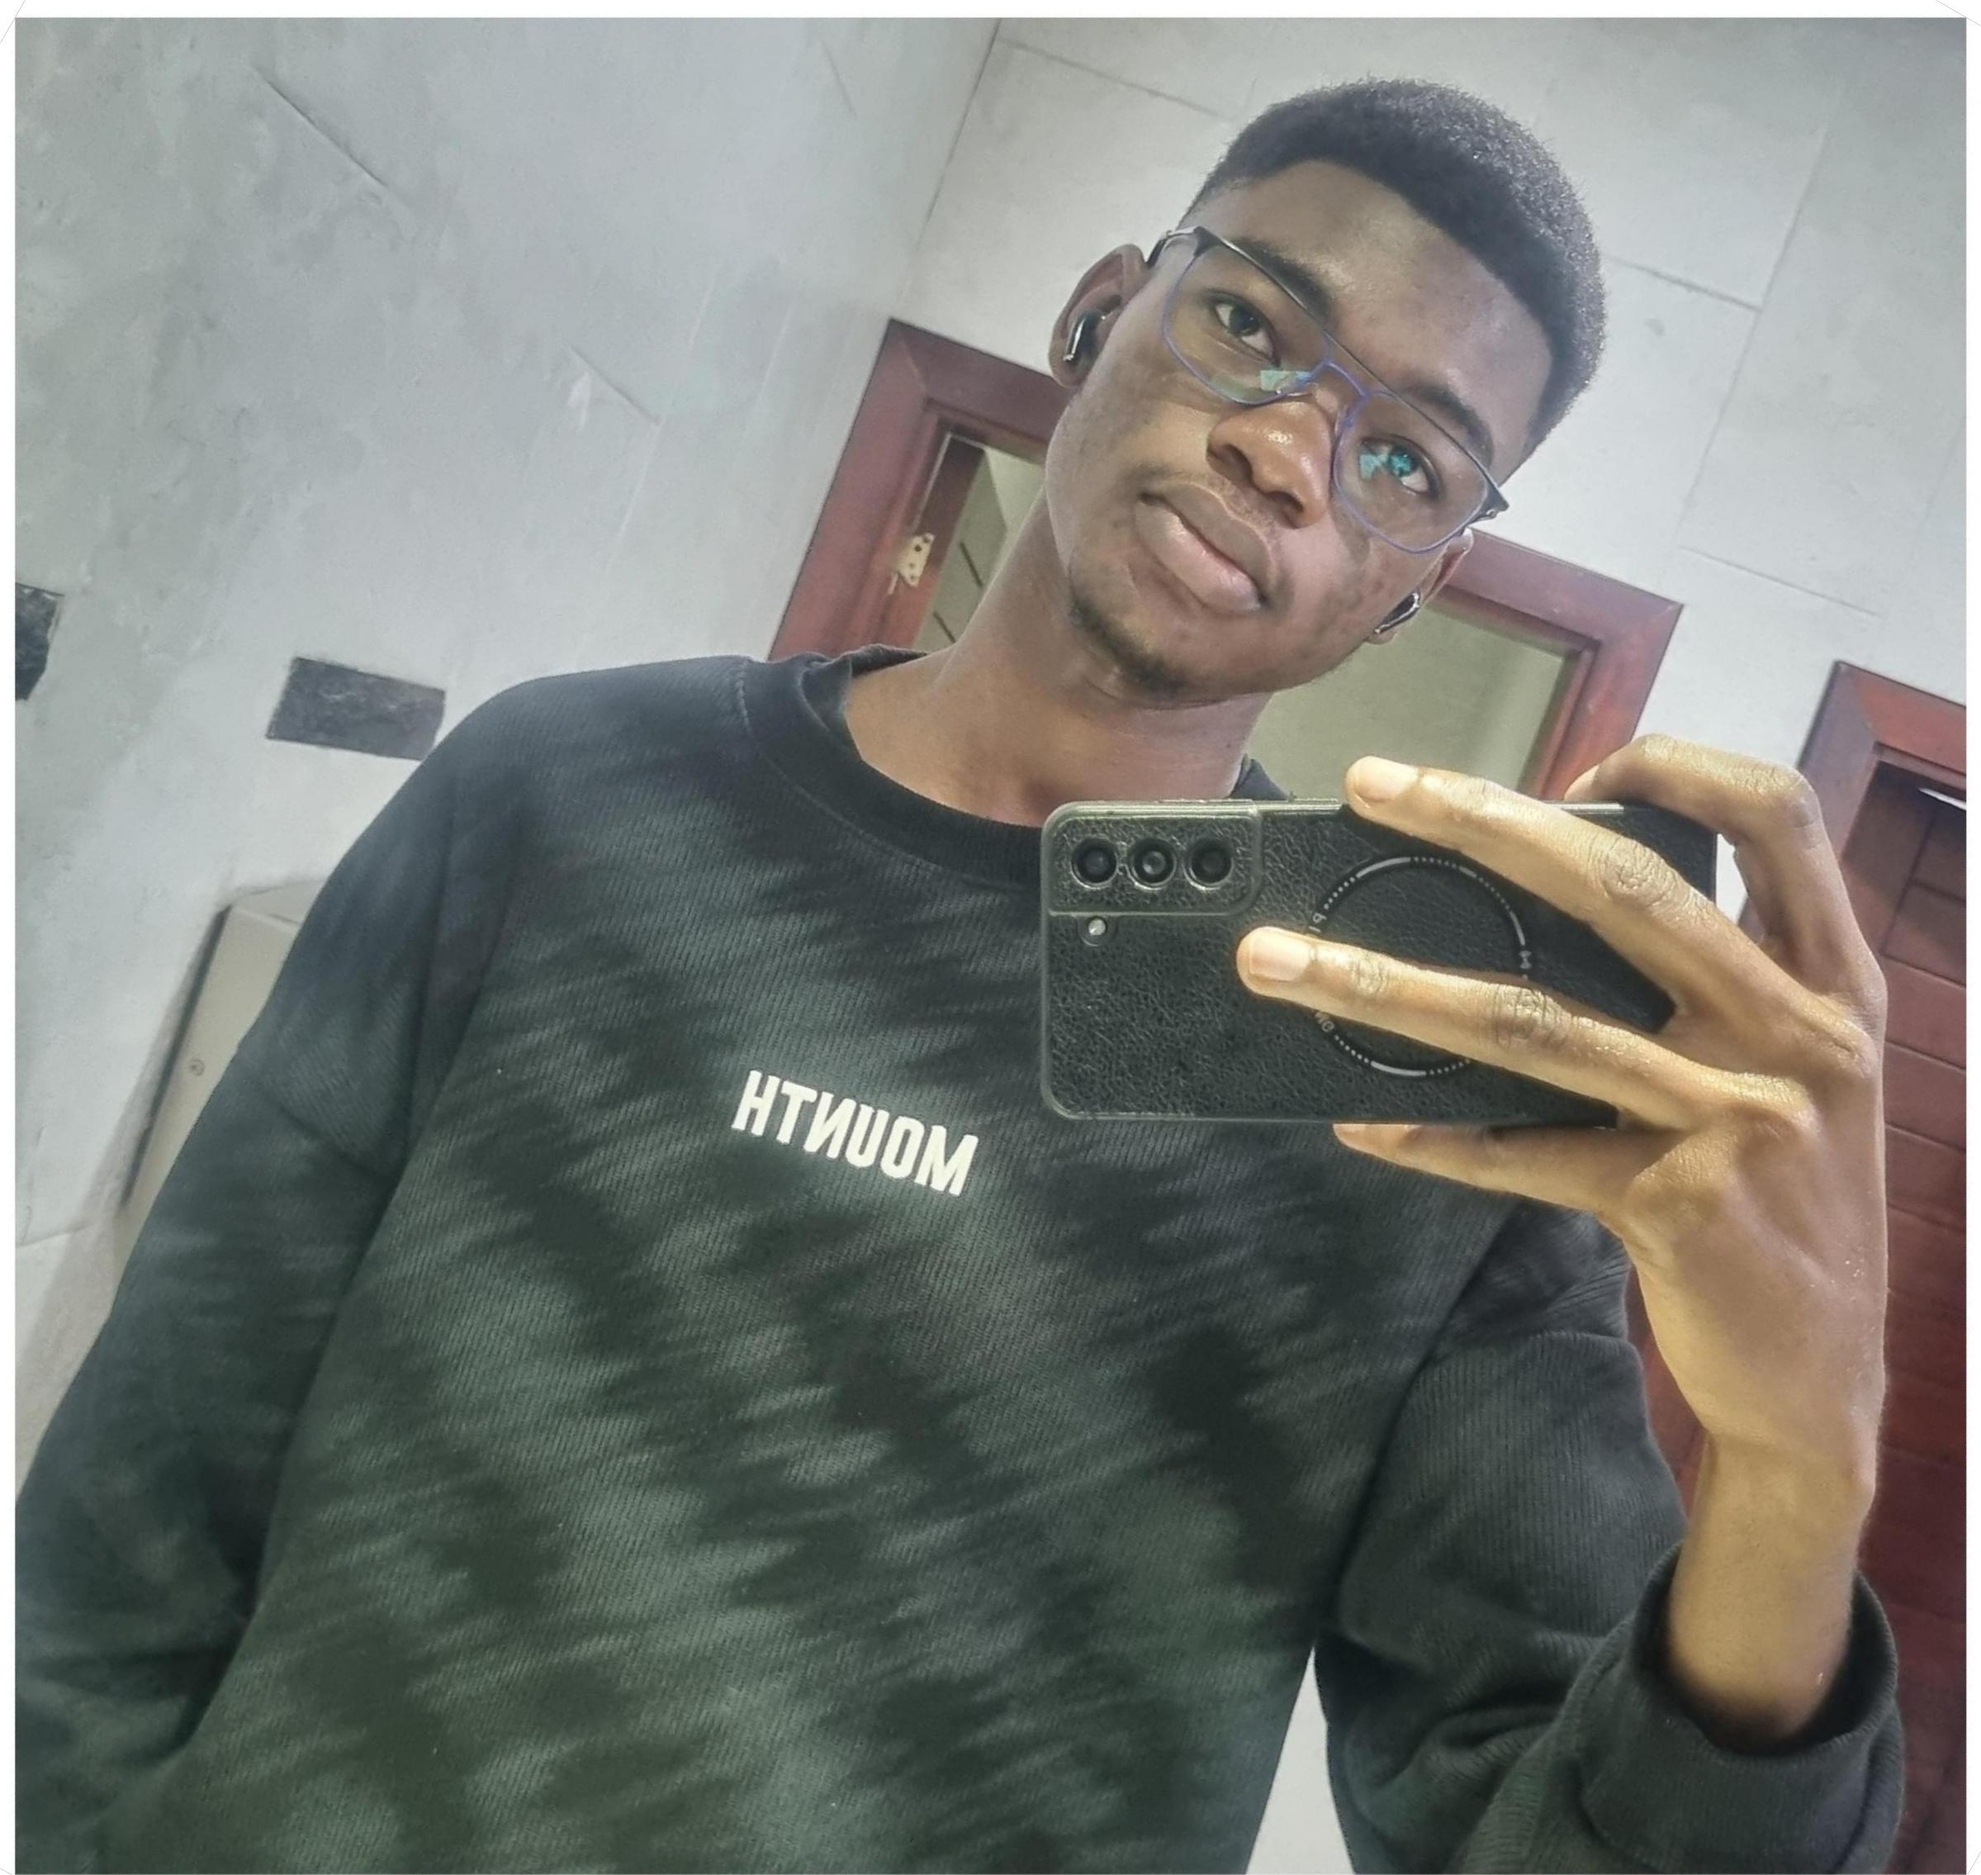
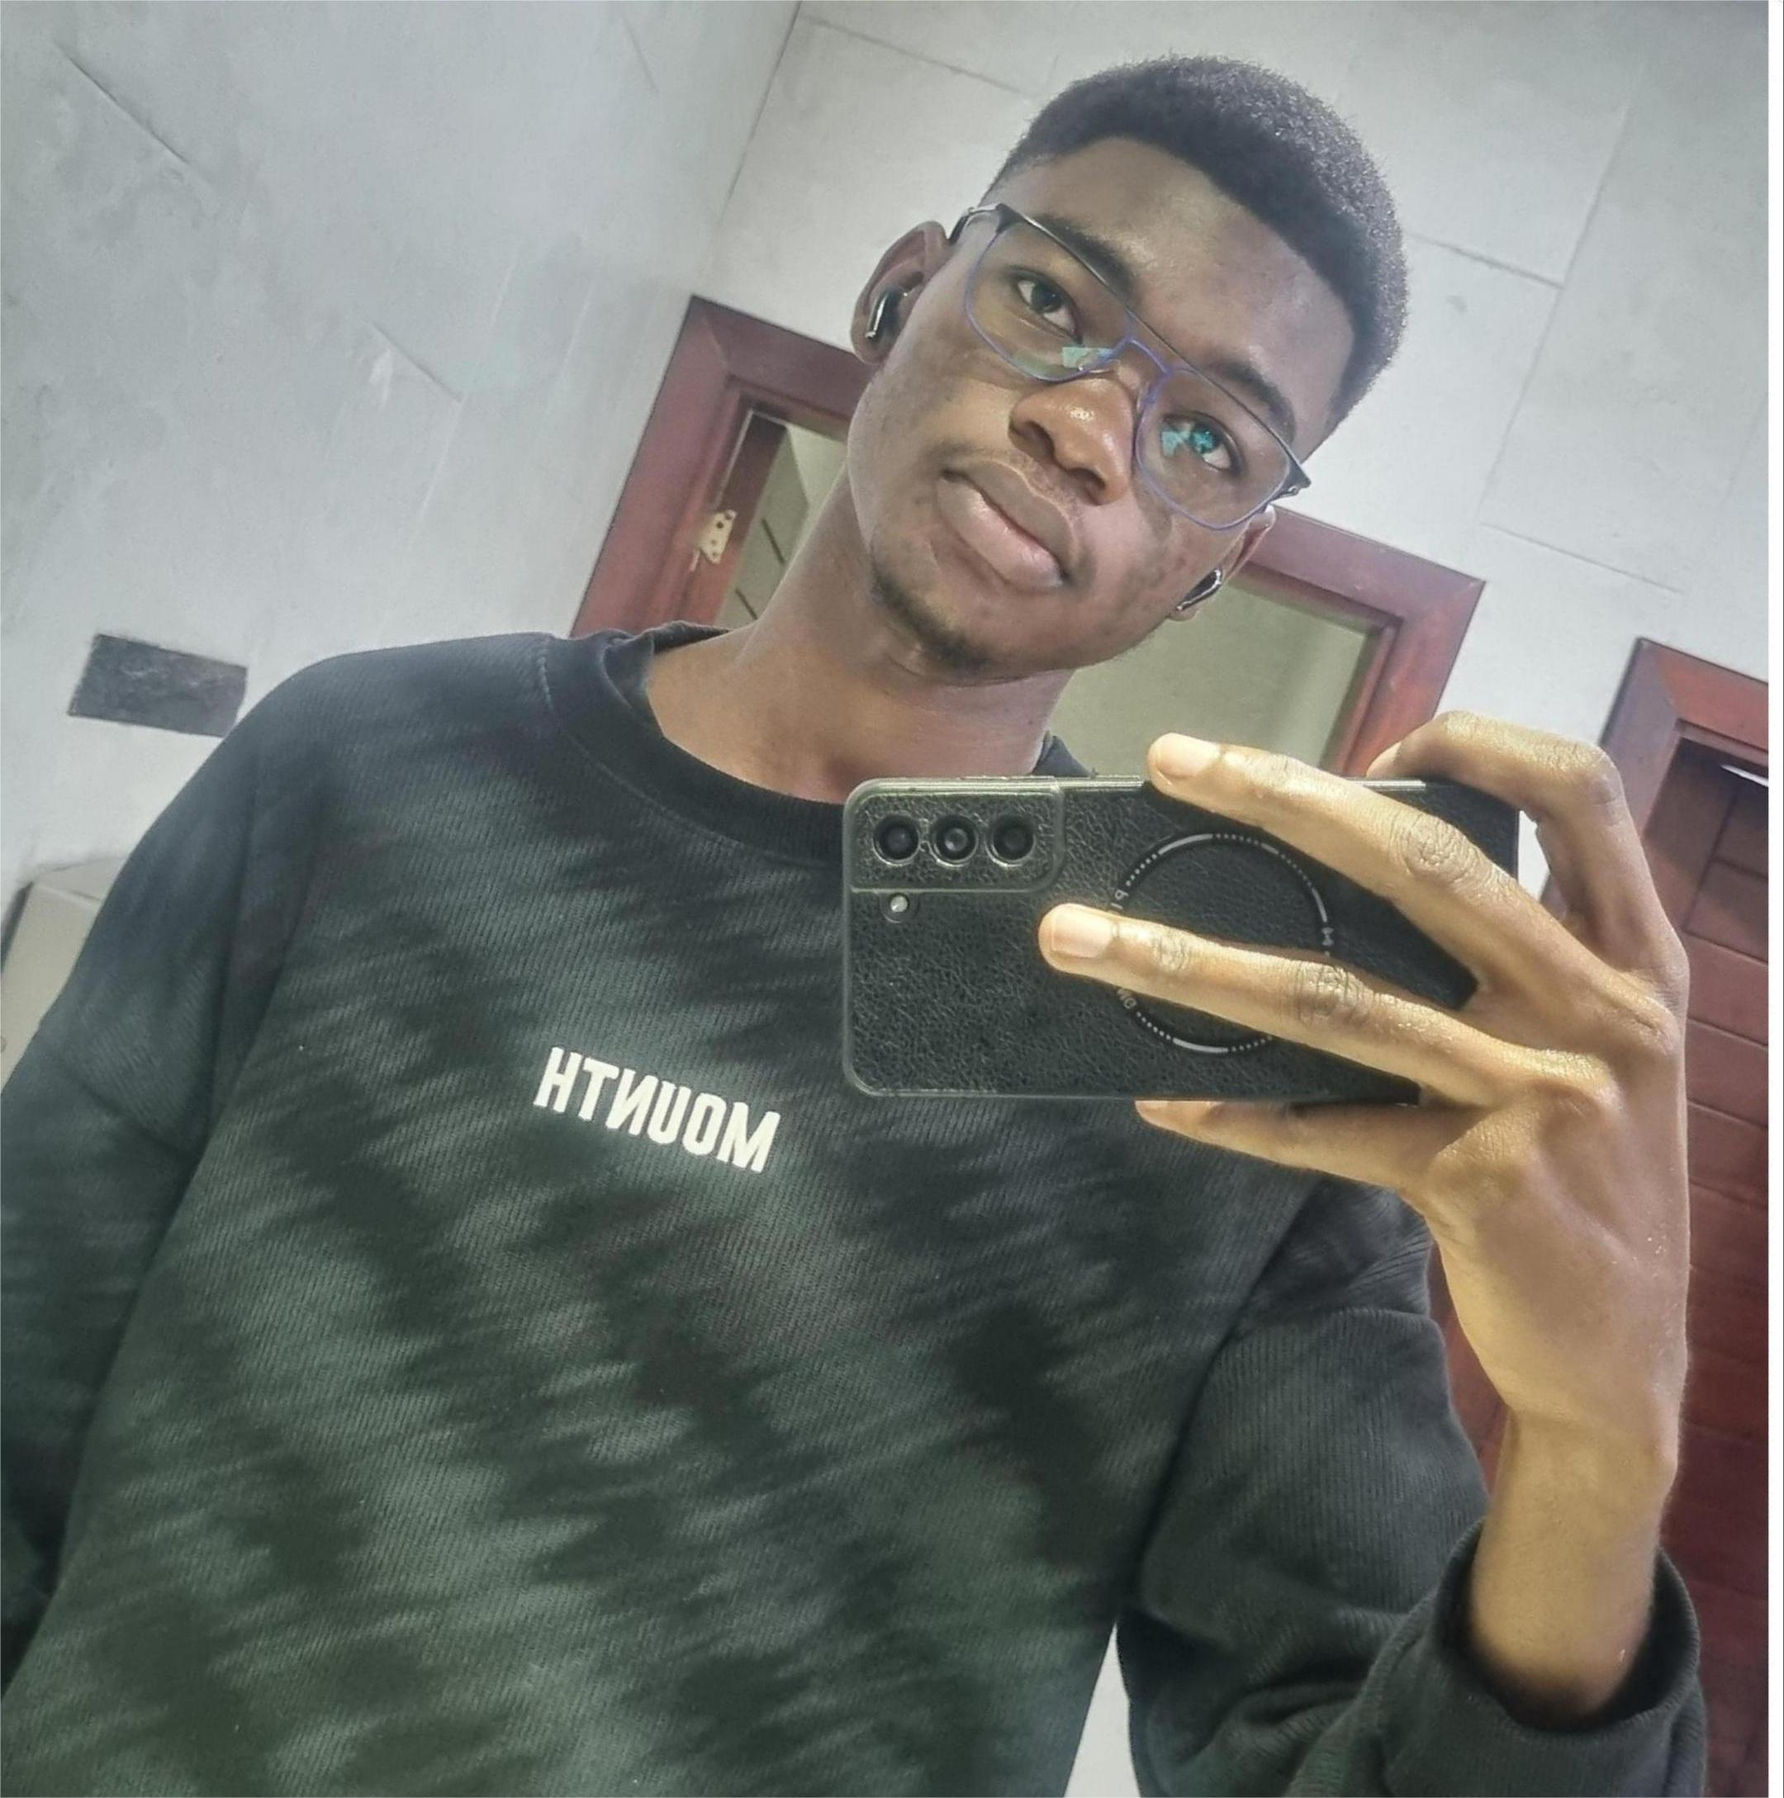
feat: update project links and enhance UI components with improved styles and effects

diff --git a/src/components/sections/Contact.tsx b/src/components/sections/Contact.tsx
@@ -55,7 +55,7 @@ export default function Contact() {
               onChange={handleChange}
               placeholder="Name"
               required
-              className="w-full px-4 py-3 rounded-xl bg-surface border border-edge text-ink placeholder:text-muted focus:outline-none focus:border-accent transition-colors"
+              className="w-full px-4 py-3 rounded-xl bg-surface/60 backdrop-blur-sm border border-white/6 text-ink placeholder:text-muted focus:outline-none focus:border-accent/60 transition-colors"
             />
             <input
               name="email"
@@ -64,7 +64,7 @@ export default function Contact() {
               onChange={handleChange}
               placeholder="Email"
               required
-              className="w-full px-4 py-3 rounded-xl bg-surface border border-edge text-ink placeholder:text-muted focus:outline-none focus:border-accent transition-colors"
+              className="w-full px-4 py-3 rounded-xl bg-surface/60 backdrop-blur-sm border border-white/6 text-ink placeholder:text-muted focus:outline-none focus:border-accent/60 transition-colors"
             />
             <textarea
               name="message"
@@ -73,7 +73,7 @@ export default function Contact() {
               placeholder="Message"
               required
               rows={5}
-              className="w-full px-4 py-3 rounded-xl bg-surface border border-edge text-ink placeholder:text-muted focus:outline-none focus:border-accent transition-colors resize-none"
+              className="w-full px-4 py-3 rounded-xl bg-surface/60 backdrop-blur-sm border border-white/6 text-ink placeholder:text-muted focus:outline-none focus:border-accent/60 transition-colors resize-none"
             />
             <button
               type="submit"

diff --git a/src/components/sections/Hero.tsx b/src/components/sections/Hero.tsx
@@ -91,13 +91,21 @@ export default function Hero() {
 
           {/* Photo */}
           <div className="flex justify-center md:justify-end order-first md:order-last">
-            <div className="relative">
+            <div
+              className="group relative w-56 h-72 md:w-64 md:h-80 rounded-3xl overflow-hidden ring-1 ring-accent/25 shrink-0"
+              style={{ boxShadow: "0 8px 48px rgba(139, 92, 246, 0.14)" }}
+            >
               <img
                 src="/me.jpg"
                 alt="Eben-Ezer Ndeingar"
-                className="w-56 h-72 md:w-64 md:h-80 object-cover object-top rounded-3xl ring-1 ring-accent/25"
-                style={{ boxShadow: "0 8px 48px rgba(139, 92, 246, 0.14)" }}
+                className="w-full h-full object-cover object-top"
               />
+              {/* Diagonal shine sweep on hover */}
+              <div className="absolute inset-0 pointer-events-none overflow-hidden rounded-3xl">
+                <div className="absolute inset-0 -translate-x-full group-hover:translate-x-[250%] transition-transform duration-700 ease-in-out bg-gradient-to-r from-transparent via-white/12 to-transparent -skew-x-12" />
+              </div>
+              {/* Bottom fade — photo bleeds into background */}
+              <div className="absolute bottom-0 left-0 right-0 h-2/5 bg-gradient-to-t from-canvas/70 to-transparent pointer-events-none" />
             </div>
           </div>
         </motion.div>

diff --git a/src/components/project/ProjectCard.tsx b/src/components/project/ProjectCard.tsx
@@ -17,7 +17,8 @@ export default function ProjectCard({ project }: ProjectCardProps) {
     <motion.div
       role="button"
       onClick={() => navigate(`/projects/${project.slug}`)}
-      className="cursor-pointer group shrink-0 w-80 flex flex-col justify-between gap-8 p-6 rounded-2xl border border-edge bg-surface hover:border-accent transition-colors"
+      className="cursor-pointer group shrink-0 w-80 flex flex-col justify-between gap-8 p-6 rounded-2xl border border-white/6 bg-surface/70 backdrop-blur-sm hover:border-accent/50 transition-colors"
+      style={{ boxShadow: "inset 0 1px 0 rgba(255,255,255,0.04)" }}
       whileHover={reduced ? {} : { y: -6, scale: 1.02 }}
       transition={{ type: "spring", stiffness: 400, damping: 25 }}
     >

diff --git a/src/components/layout/Navbar.tsx b/src/components/layout/Navbar.tsx
@@ -33,7 +33,7 @@ export default function Navbar() {
   return (
     <>
       <nav
-        className={`fixed z-50 w-full flex items-center backdrop-blur-md border border-edge bg-surface/90 transition-all duration-300 ease-in-out ${
+        className={`fixed z-50 w-full flex items-center backdrop-blur-md border border-white/8 bg-surface/80 transition-all duration-300 ease-in-out ${
           scrolled
             ? "right-4 md:right-auto md:left-1/2 md:-translate-x-1/2 max-w-14 md:max-w-88 top-6 rounded-full p-1 justify-center"
             : "left-1/2 -translate-x-1/2 max-w-full top-0 rounded-none px-6 md:px-8 py-4 justify-between"

diff --git a/src/data/projects.ts b/src/data/projects.ts
@@ -21,7 +21,7 @@ export const projects: Project[] = [
     whatILearned:
       "How to think about state that outlives a component, and that good UX is often invisible; the user just feels like the app is on their side.",
     links: {
-      live: "https://movie-app-two-pi-45.vercel.app",
+      live: "https://z-moviies.vercel.app",
       github: "https://github.com/Zolender/MovieApp",
     },
     screenshots: [
